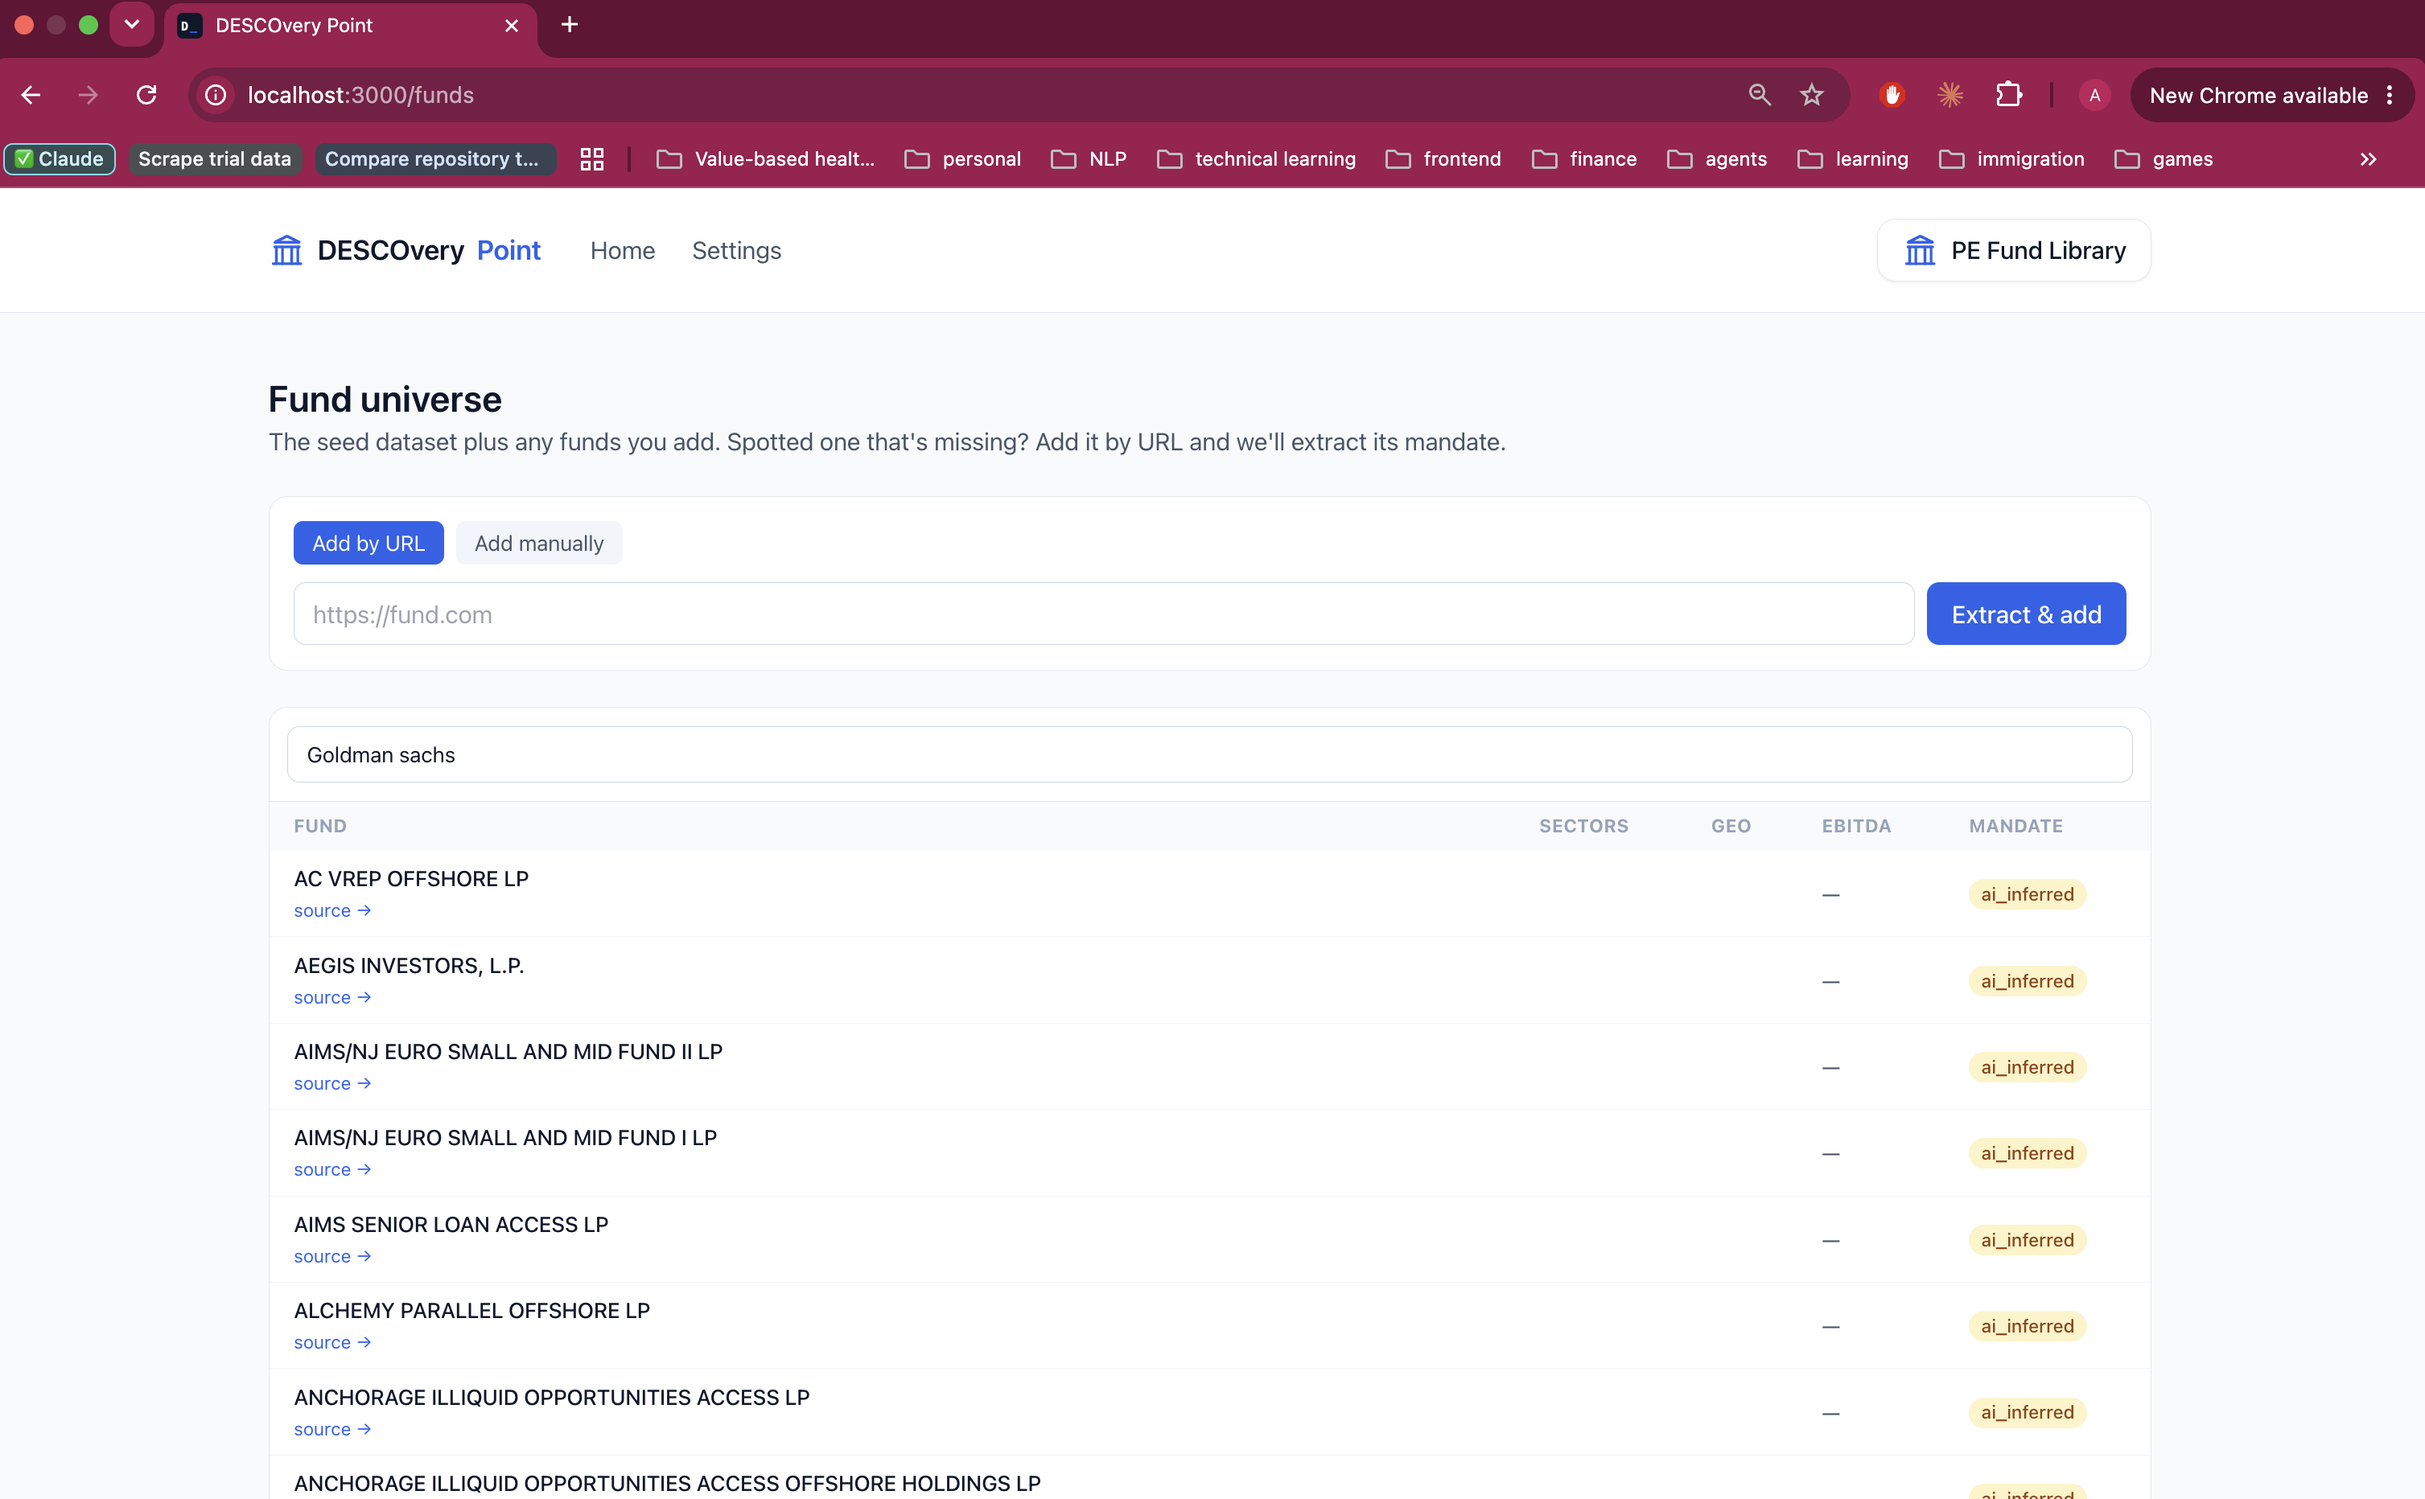
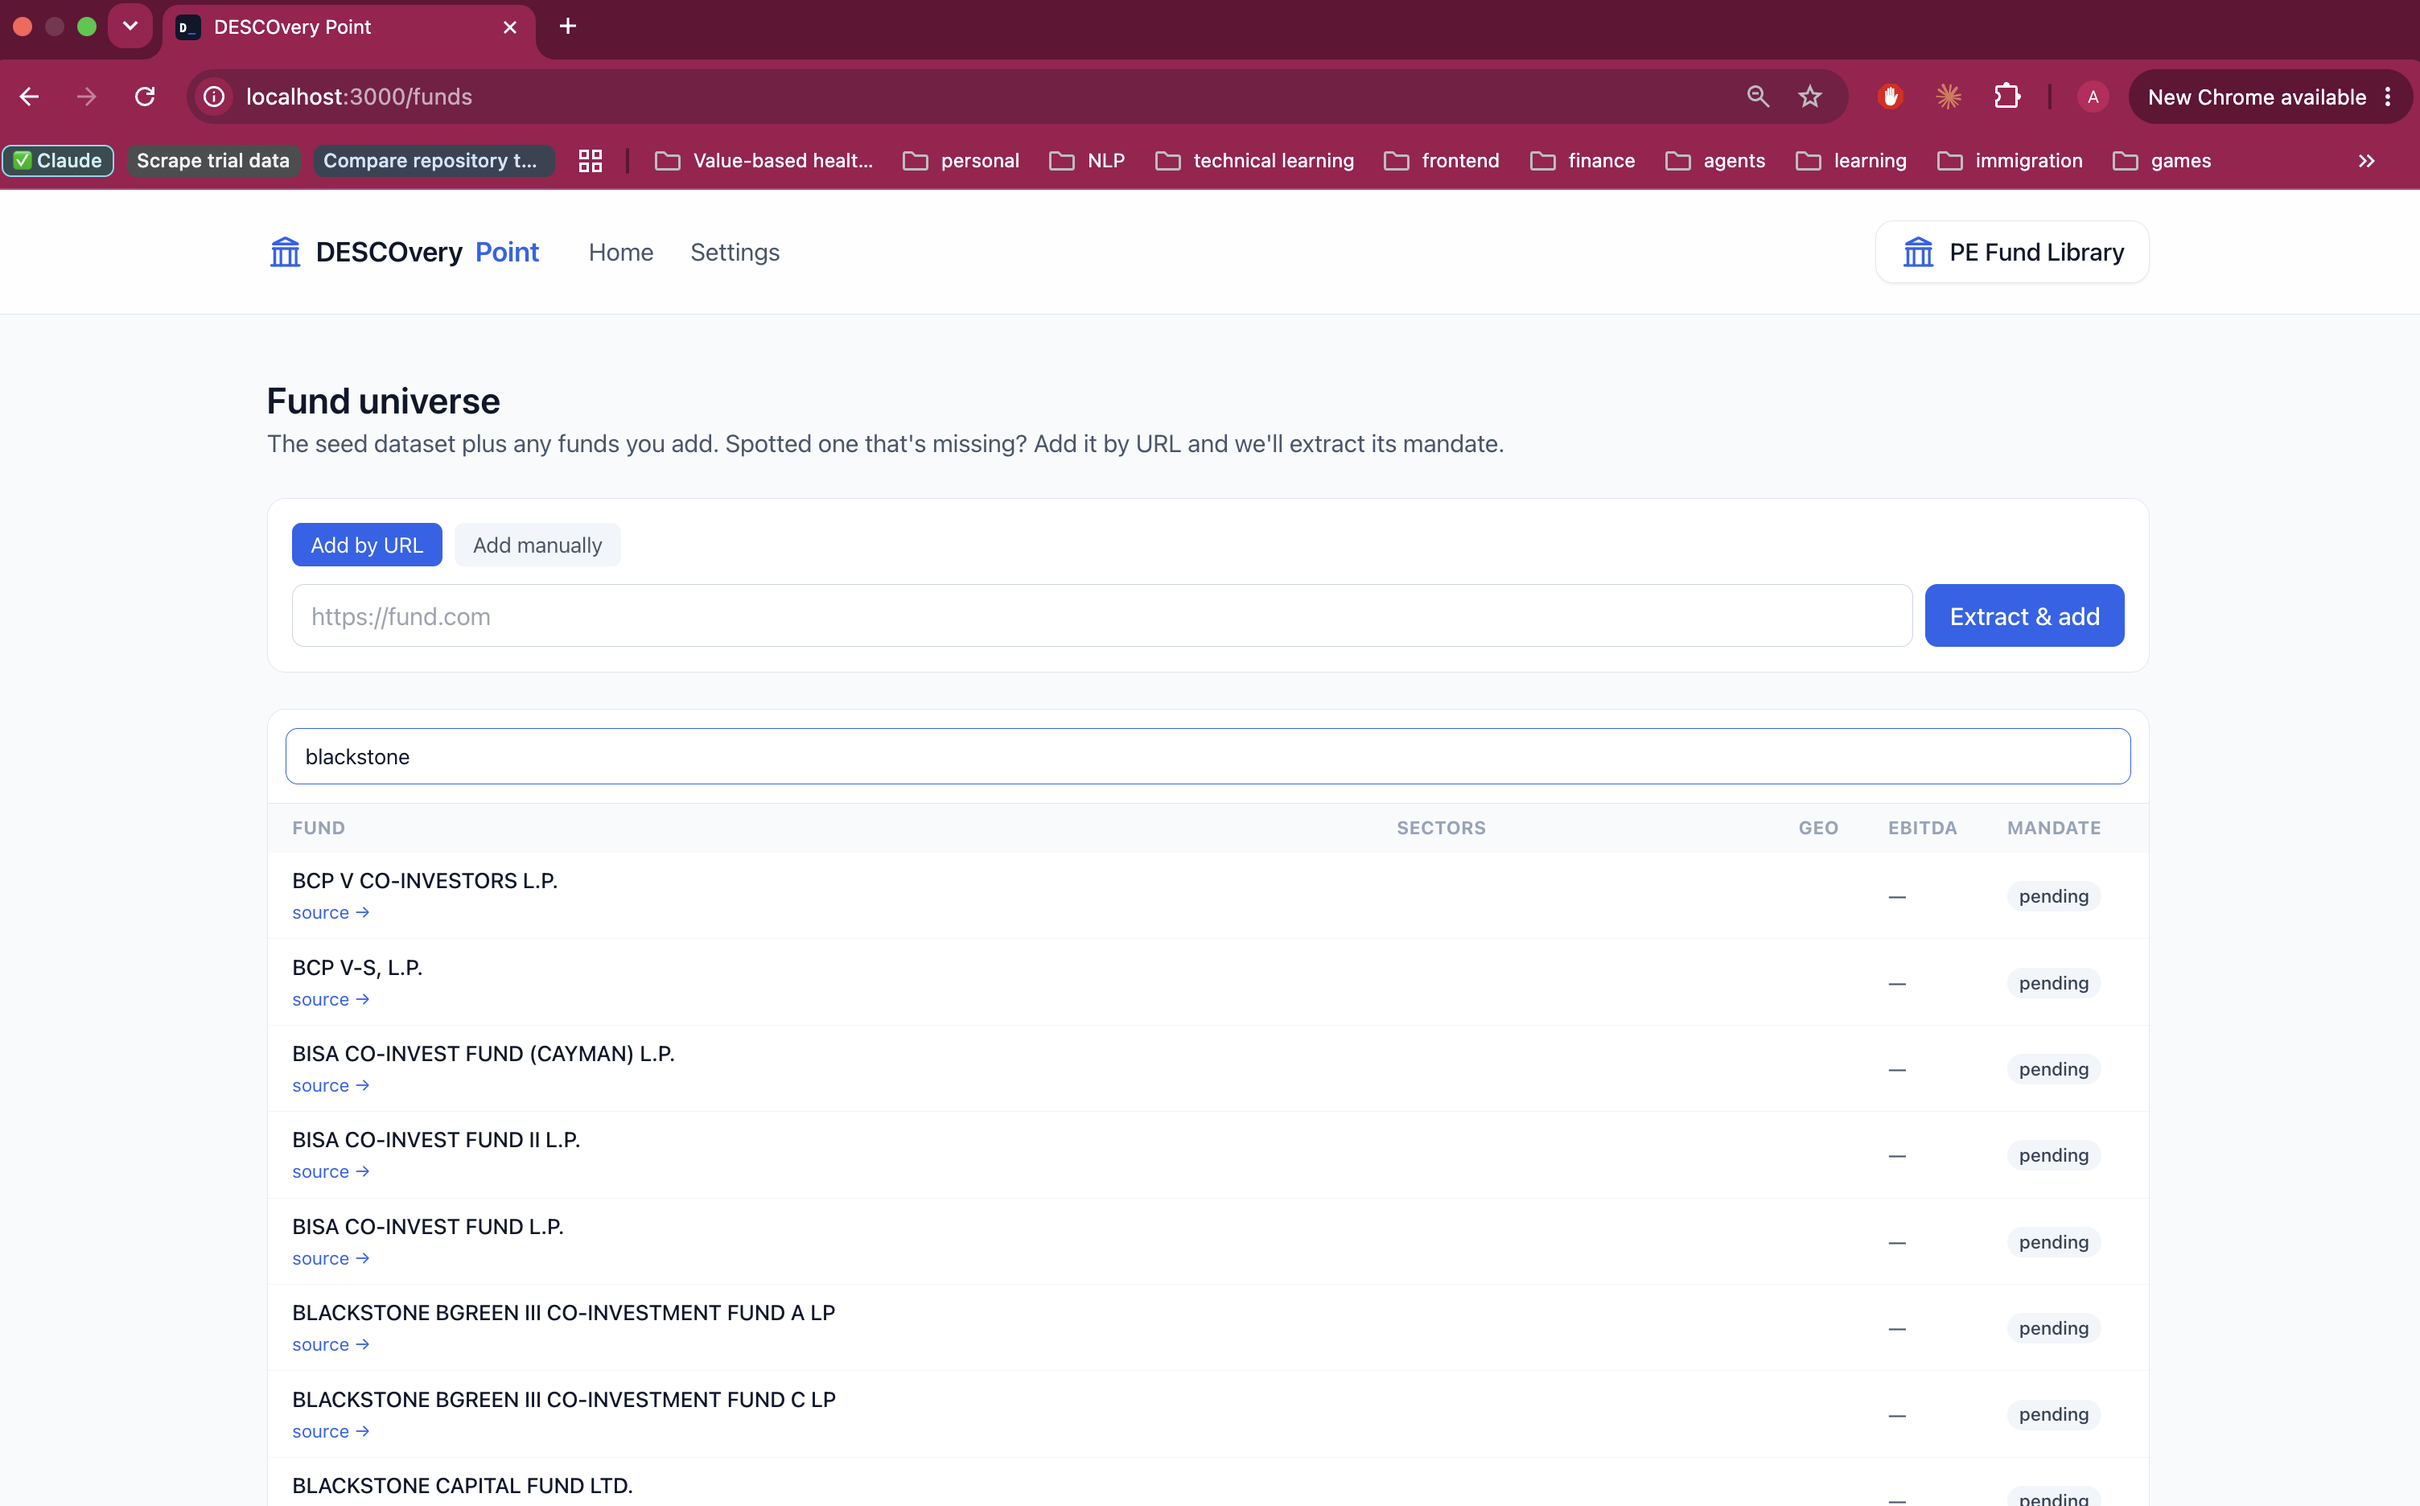
docs

diff --git a/about.md b/about.md
@@ -116,12 +116,12 @@ accordingly.
 
 The funds page shows the assembled universe — the seed dataset plus any funds you
 add by URL, alongside the EDGAR-ingested funds, each badged with its mandate
-source. Searching it for **Goldman Sachs** surfaces dozens of its `ai_inferred`
+source. Searching it for **Blackstone** surfaces dozens of its `ai_inferred`
 EDGAR vehicles — the kind of breadth the shortlist is drawn from.
 
-![Fund universe — searching for Goldman Sachs surfaces its EDGAR-sourced funds, each flagged ai_inferred](docs/screenshots/funds_explorer.png)
+![Fund universe — searching for Blackstone surfaces its EDGAR-sourced funds, each flagged ai_inferred](docs/screenshots/funds_explorer.png)
 
-*The fund universe, filtered to Goldman Sachs: EDGAR-sourced vehicles each flagged `ai_inferred`, with the "Add by URL / Add manually" flow up top.*
+*The fund universe, filtered to Blackstone: EDGAR-sourced vehicles each flagged `ai_inferred`, with the "Add by URL / Add manually" flow up top.*
 
 ---
 
@@ -185,7 +185,7 @@ so the user makes the final call.
 ### Formation Bio's shortlist
 
 Running the engine puts **J.P. Morgan's 270 Growth Fund** at the top (fit 57),
-ahead of two Goldman Sachs growth/opportunistic vehicles — a result that shows
+ahead of two Blackstone growth/opportunistic vehicles — a result that shows
 the pillars working together:
 
 - **The geography and gross-size gates** clear the obvious non-fits; survivors are

diff --git a/tldr_about.md b/tldr_about.md
@@ -1,0 +1,11 @@
+# DESCOvery Point — TL;DR
+
+DESCOvery Point is an AI tool that takes a company's **website URL** and returns a ranked shortlist of private-equity funds that would be good potential buyers, working in three separable stages: it first **profiles the company** (scraping the site, escalating to Claude's `web_fetch` only when a page is thin or bot-walled, then using an LLM to extract industry, location, size, financials, and ownership — and optionally enriching gaps from LinkedIn, PitchBook, and news), then assembles a **fund universe** from three sources (a curated seed, funds added by URL, and real SEC EDGAR filings), and finally **matches and ranks** them through a 4-stage engine (deterministic geography/size gates → a quick, no-LLM score of how well the company's size fits each fund's target range → an LLM judge on the top candidates scoring mandate/strategy/value-creation fit → an LLM re-rank with a plain-language "why this fits"). Throughout, the system degrades gracefully — missing data is treated as null (never zero or a guess), numbers are never fabricated, every fact carries a cited source, and scores guide rather than gatekeep so the user always makes the final call.
+
+```mermaid
+graph LR
+    U[Company URL] --> C[1 Company]
+    C --> F[2 Fund universe]
+    F --> M[3 Matching]
+    M --> R[Ranked shortlist]
+```
